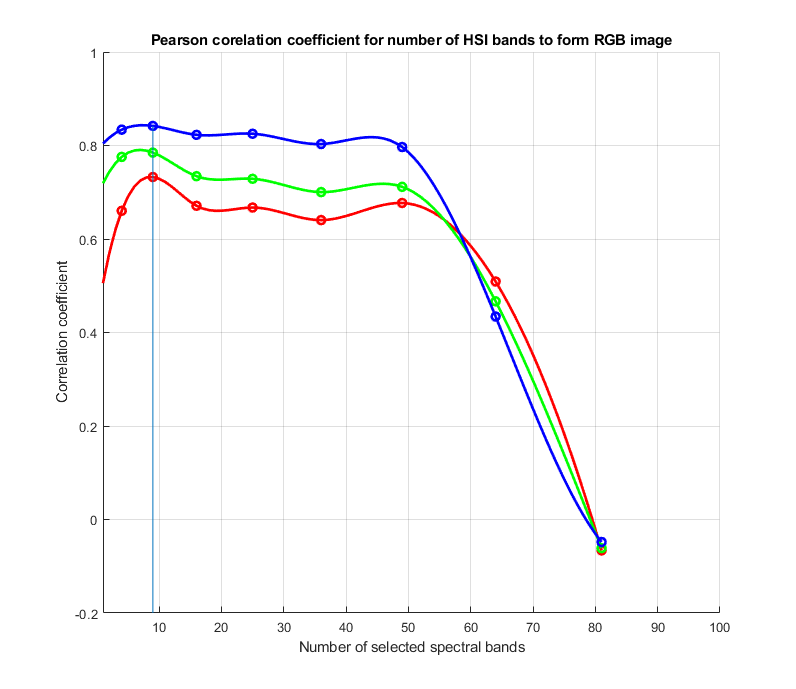
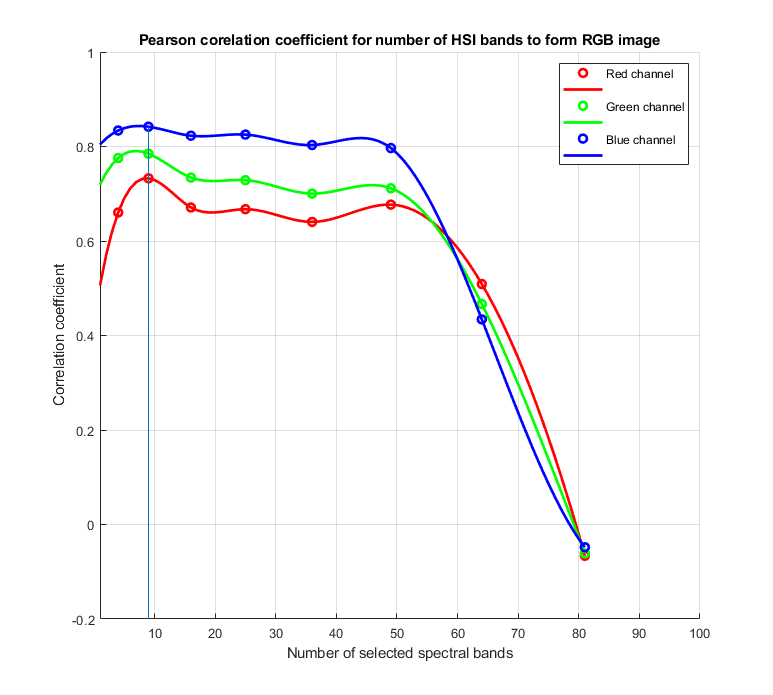
graph legends added

diff --git a/Matlab code samples/ForThesis.m b/Matlab code samples/ForThesis.m
@@ -129,4 +129,6 @@ ylabel('Correlation coefficient');
 
 line([9, 9], [-0.2, 0.8419]);
 
+legend('Red channel','','Green channel','', 'Blue channel', '')
+
 hold off;
